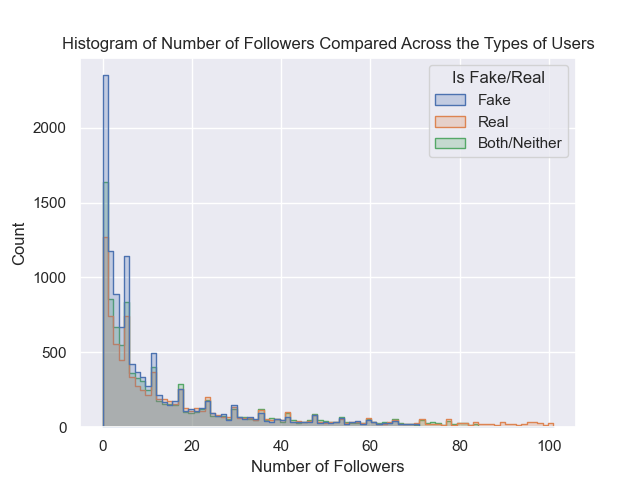
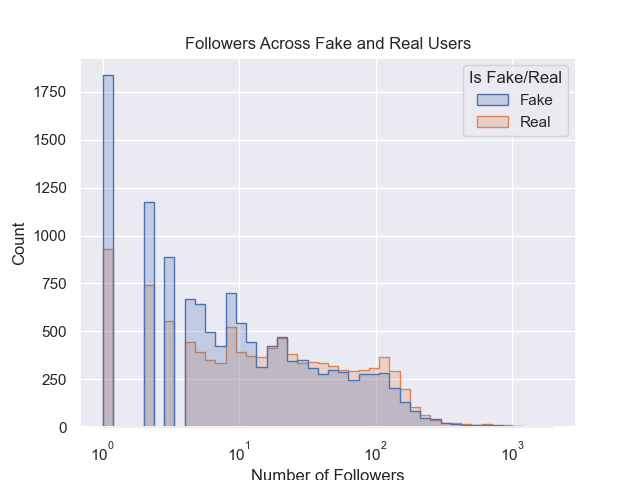
Small changes

diff --git a/visualization/histograms/followers/generate_data/get_followers_data.py b/visualization/histograms/followers/generate_data/get_followers_data.py
@@ -7,24 +7,6 @@
 from visualization.utils import get_user_distribution
 from visualization.get_json_dict import DATABASE
 
-IQR_ALL = 32
-Q1_ALL = 3
-Q3_ALL = 35
-LOWER_OUTLIER_LESS_THAN_ALL = Q1_ALL - 1.5 * IQR_ALL
-UPPER_OUTLIER_GREATER_THAN_ALL = Q3_ALL + 1.5 * IQR_ALL
-
-IQR_FAKE = 27
-Q1_FAKE = 3
-Q3_FAKE = 30
-LOWER_OUTLIER_LESS_THAN_FAKE = Q1_FAKE - 1.5 * IQR_FAKE
-UPPER_OUTLIER_GREATER_THAN_FAKE = Q3_FAKE + 1.5 * IQR_FAKE
-
-IQR_REAL = 39
-Q1_REAL = 4
-Q3_REAL = 43
-LOWER_OUTLIER_LESS_THAN_REAL = Q1_REAL - 1.5 * IQR_REAL
-UPPER_OUTLIER_GREATER_THAN_REAL = Q3_REAL + 1.5 * IQR_REAL
-
 
 def get_followers_lists():
     """ Gets the number of followers for all users and labels them as fake, real or both/neither.
@@ -39,20 +21,11 @@ def get_followers_lists():
     for user in user_dist['all-users']:
         num_followers = DATABASE['users']['counts'][user]['followers']['count']
         if user in user_dist['fake-users']:
-            if not (num_followers < LOWER_OUTLIER_LESS_THAN_FAKE or num_followers >
-                    UPPER_OUTLIER_GREATER_THAN_FAKE):
-                labels.append('Fake')
-                followers.append(num_followers)
+            labels.append('Fake')
+            followers.append(num_followers)
         elif user in user_dist['real-users']:
-            if not (num_followers < LOWER_OUTLIER_LESS_THAN_REAL or num_followers >
-                    UPPER_OUTLIER_GREATER_THAN_REAL):
-                labels.append('Real')
-                followers.append(num_followers)
-        else:
-            if not (num_followers < LOWER_OUTLIER_LESS_THAN_ALL or num_followers >
-                    UPPER_OUTLIER_GREATER_THAN_ALL):
-                labels.append('Both/Neither')
-                followers.append(num_followers)
+            labels.append('Real')
+            followers.append(num_followers)
     return followers, labels
 
 

diff --git a/visualization/histograms/followings/generate_data/get_followings_data.py b/visualization/histograms/followings/generate_data/get_followings_data.py
@@ -1,0 +1,56 @@
+"""
+
+    Author: Daniel Markusson
+
+"""
+
+from visualization.utils import get_user_distribution
+from visualization.get_json_dict import DATABASE
+
+IQR_ALL = 32
+Q1_ALL = 3
+Q3_ALL = 35
+LOWER_OUTLIER_LESS_THAN_ALL = Q1_ALL - 1.5 * IQR_ALL
+UPPER_OUTLIER_GREATER_THAN_ALL = 500
+
+IQR_FAKE = 27
+Q1_FAKE = 3
+Q3_FAKE = 30
+LOWER_OUTLIER_LESS_THAN_FAKE = Q1_FAKE - 1.5 * IQR_FAKE
+UPPER_OUTLIER_GREATER_THAN_FAKE = 500
+
+IQR_REAL = 39
+Q1_REAL = 4
+Q3_REAL = 43
+LOWER_OUTLIER_LESS_THAN_REAL = Q1_REAL - 1.5 * IQR_REAL
+UPPER_OUTLIER_GREATER_THAN_REAL = 500
+
+
+def get_followings_lists():
+    """ Gets the number of followers for all users and labels them as fake, real or both/neither.
+
+    Returns:
+        tuple[list[int], list[str]]:    The tuple of lists containing the number of followers and
+                                        the label of each user.
+    """
+    user_dist = get_user_distribution(DATABASE)
+    fake_followings = []
+    real_followings = []
+    labels = []
+    for user in user_dist['all-users']:
+        num_following = DATABASE['users']['counts'][user]['following']['count']
+        if user in user_dist['fake-users']:
+            if not (num_following < LOWER_OUTLIER_LESS_THAN_FAKE or num_following >
+                    UPPER_OUTLIER_GREATER_THAN_FAKE):
+                labels.append('Fake')
+                fake_followings.append(num_following)
+        elif user in user_dist['real-users']:
+            if not (num_following < LOWER_OUTLIER_LESS_THAN_REAL or num_following >
+                    UPPER_OUTLIER_GREATER_THAN_REAL):
+                labels.append('Real')
+                real_followings.append(num_following)
+    return fake_followings + real_followings, labels
+
+
+if __name__ == "__main__":
+    print(get_followings_lists())

diff --git a/visualization/histograms/followings/CREATE_FOLLOWINGS_HISTOGRAM.py b/visualization/histograms/followings/CREATE_FOLLOWINGS_HISTOGRAM.py
@@ -1,0 +1,30 @@
+"""
+
+    Author: Daniel Markusson
+
+"""
+
+from visualization.histograms.followings.generate_data.get_followings_data import get_followings_lists
+from visualization.histograms.create_histogram import create_comparitive_histogram
+
+
+def create_followings_histogram():
+    """ Create a histogram of the followers.
+    """
+    followings, labels = get_followings_lists()
+
+    create_comparitive_histogram(
+        followings, labels, ["Number of Followers", "Is Fake/Real"],
+        "Is Fake/Real", "Number of Followers",
+        "Followings Across Fake and Real Users",
+        "followings_histogram.png")
+
+
+def main():
+    """ Create the followers histogram.
+    """
+    create_followings_histogram()
+
+
+if __name__ == "__main__":
+    main()

diff --git a/visualization/histograms/followers/CREATE_FOLLOWERS_HISTOGRAM.py b/visualization/histograms/followers/CREATE_FOLLOWERS_HISTOGRAM.py
@@ -16,7 +16,7 @@ def create_followers_histogram():
     create_comparitive_histogram(
         followers, labels, ["Number of Followers", "Is Fake/Real"],
         "Is Fake/Real", "Number of Followers",
-        "Histogram of Number of Followers Compared Across the Types of Users",
+        "Followers Across Fake and Real Users",
         "followers_histogram.png")
 
 

diff --git a/visualization/histograms/create_histogram.py b/visualization/histograms/create_histogram.py
@@ -56,7 +56,8 @@ def create_comparitive_histogram(points_to_plot: list[int], labels: list[str], c
         data=data,
         x=to_plot,
         hue=to_compare,
-        element="step"
+        element="step",
+        log_scale=True
     ).set(title=title)
 
     plt.savefig(get_file_to_export_path(file_name, "histograms"))

diff --git a/visualization/ecdfs/create_ecdf.py b/visualization/ecdfs/create_ecdf.py
@@ -49,7 +49,9 @@ def create_comparitive_ecdf(points_to_plot: list[int], labels: list[str], column
     if xlabel is None:
         xlabel = to_plot
 
-    sns.set_theme()
+    sns.set_theme(rc={
+        'figure.figsize': (6.5, 6.5)
+    })
 
     cleaned_data = []
     for point, label in zip(points_to_plot, labels):
